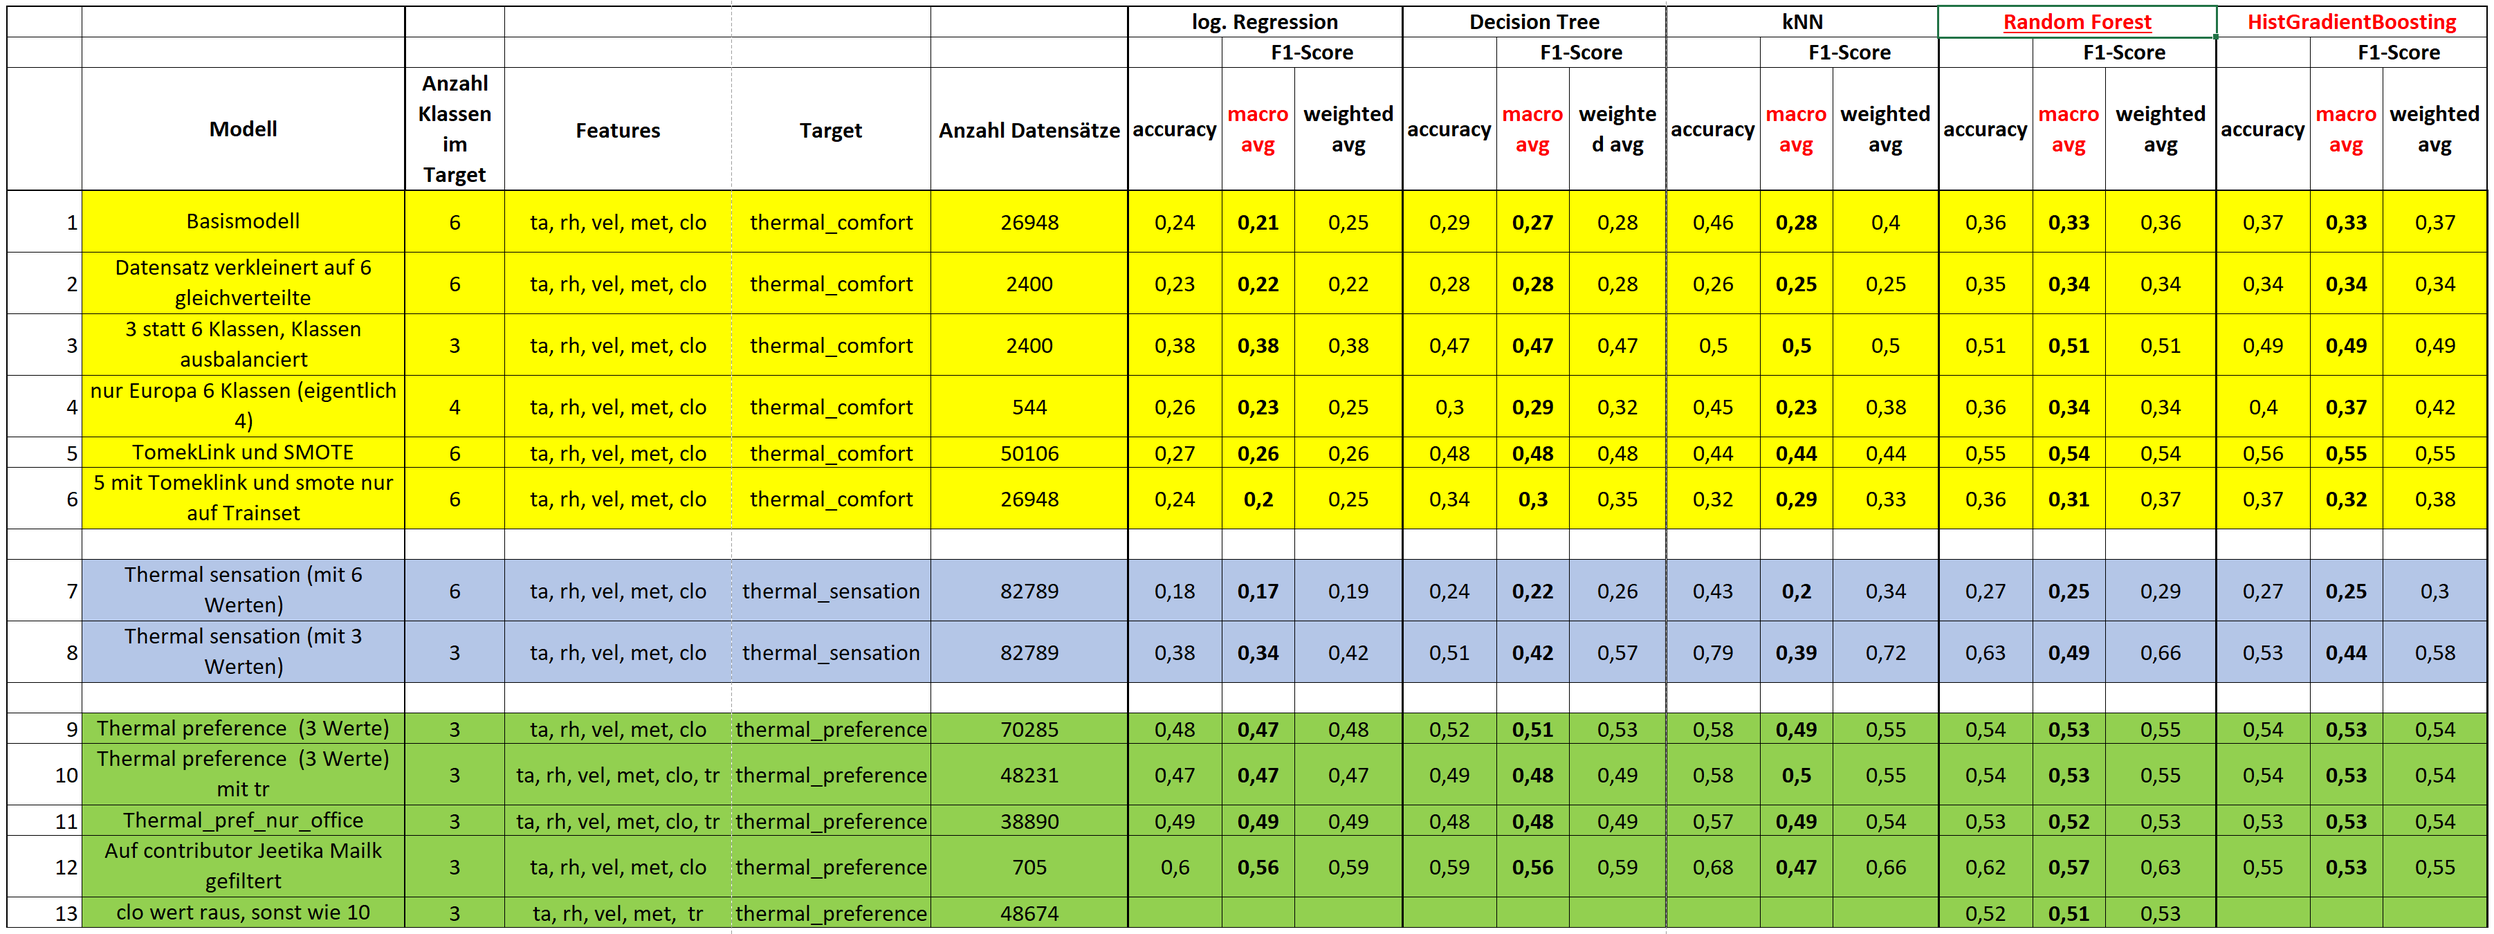
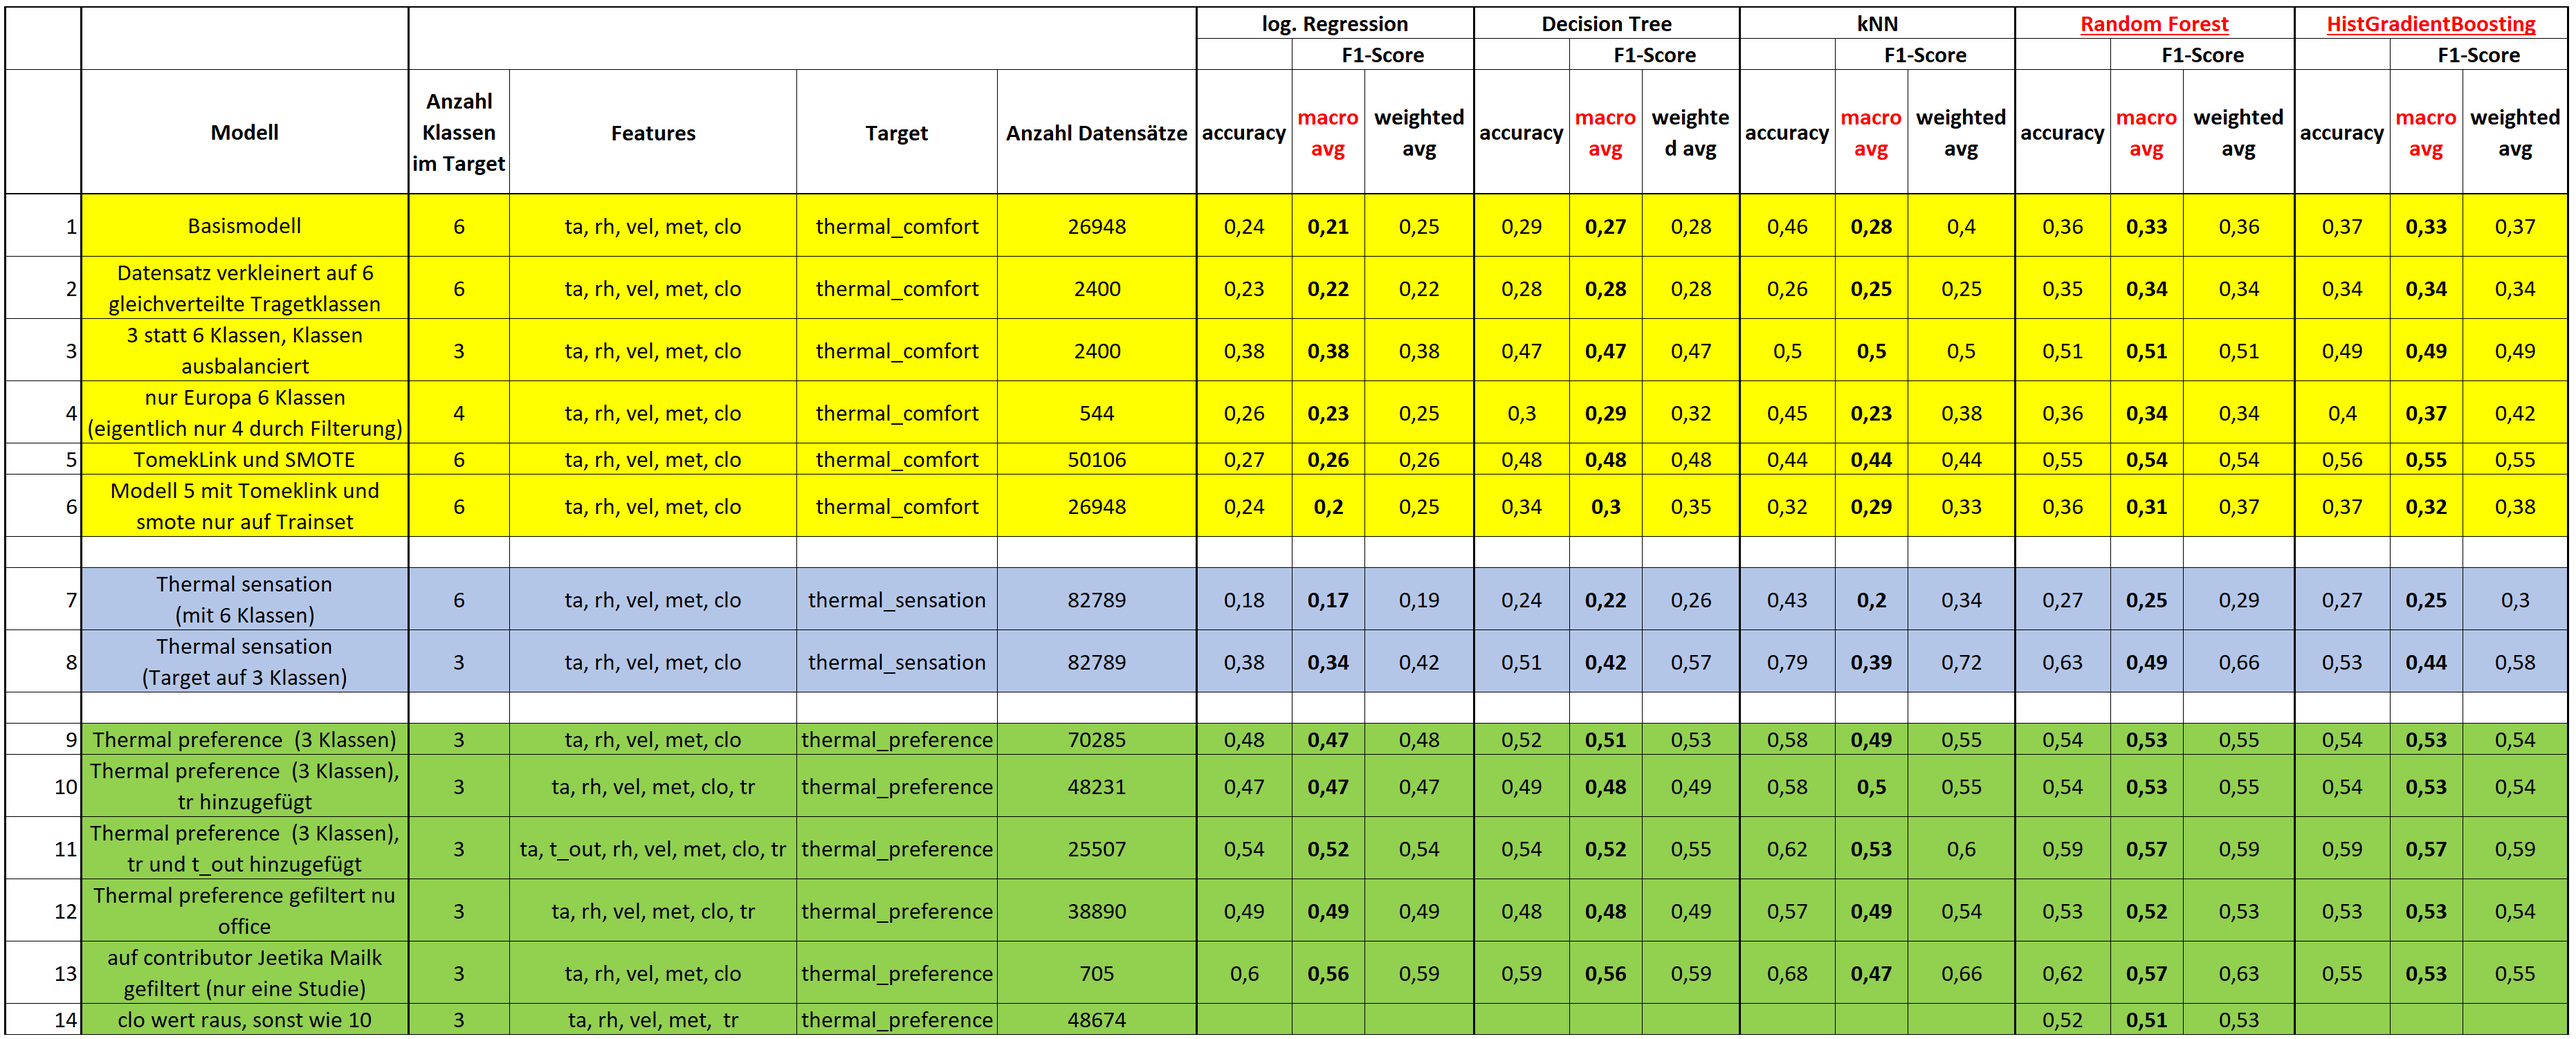
update_ML

diff --git a/ml_ashrae.py b/ml_ashrae.py
@@ -33,8 +33,6 @@ import io
 import threading
 import time
 
-
-
 # Seiteneinstellungen konfigurieren
 st.set_page_config(
     page_title="ASHRAE Cooling Type Classifier",
@@ -176,19 +174,35 @@ with tab2:
 
     st.subheader("Subjektive Komfortbewertungen")
 
-    st.html(slide_point("Idee: Vorhersage der subjektiven Komfortbewertungen (thermal comfort, thermal sensation, therman preference) mit Hilfe von Featuren wie, ..."))
+    st.html(slide_point("Idee: Vorhersage der subjektiven Komfortbewertungen (<b>thermal comfort, thermal sensation, therman preference</b>) mit Hilfe von Featuren wie,"))
+    st.html(slide_smallpoint("Lufttemperatur"))
+    st.html(slide_smallpoint("Außentemperatur"))
+    st.html(slide_smallpoint("relative Luftfeuchtigkeit"))
+    st.html(slide_smallpoint("Luftgeschwindigkeit"))
+    st.html(slide_smallpoint("Wärmedurchgangswiderstand der Bekleidung"))
+    st.html(slide_smallpoint("Mittlere Strahlungstemperatur"))
+    st.html(slide_smallpoint("Aktivitätsgrad"))
 
 
     st.subheader("Aufgetretende Probleme")
 
     st.html(slide_point("Label Noise"))
-    st.markdown("&nbsp;&nbsp;&nbsp;&nbsp; - Die gleichen Bedingungen führen zu subjektiv unterschiedlichen Ergebnisse.")
+    st.markdown("&nbsp;&nbsp;&nbsp;&nbsp; - Die gleichen Bedingungen führen zu subjektiv unterschiedlichen Ergebnisse.<br>")
+    st.markdown("&nbsp;&nbsp;&nbsp;&nbsp;&nbsp;&nbsp;&nbsp;&nbsp;- Menschliche Varianz: Zwei Personen sitzen nebeneinander bei exakt 22 °C, gleicher Kleidung und Aktivität. Person A (hat gerade Kaffee getrunken) wählt cooler. Person B (isst gerade ein Eis) wählt no change oder warmer.")
+    st.markdown("&nbsp;&nbsp;&nbsp;&nbsp;&nbsp;&nbsp;&nbsp;&nbsp;- Subjektive Unentschlossenheit: Der Übergang von „Es ist okay“ (no change) zu „Ich hätte es gerne etwas wärmer“ (warmer) ist fließend. \n Derselbe Mensch würde an zwei verschiedenen Tagen bei exakt identischen Sensorwerten mal so und mal so abstimmen.")
     st.markdown("&nbsp;&nbsp;&nbsp;&nbsp; - Es bilden sich keine klassischen Cluster oder Möglichkeiten für einen Classifier für Unterscheidungen.")
     st.markdown("&nbsp;&nbsp;&nbsp;&nbsp; - Klassifizierungen erzielen eine Genauigkeit die kaum Mehrwert bietet.")
 
+    links, rechts = st.columns([1,1])
+
+    with links:
+        st.image("ML/images/Problem_label_noise_thermal_comfort.png", caption="Label Noise - Beispiel Thermal Comfort")
+
+    with rechts:
+        st.image("ML/images/Problem_label_noise_thermal_preference.png", caption="Label Noise - Beispiel Thermal Comfort")
+
     links, mitte, rechts = st.columns([1,2,1])
     with mitte:
-        st.image("ML/images/Problem_label_noise_thermal_comfort.png", caption="Label Noise - Beispiel Thermal Comfort")
 
         st.image("ML/images/confusion_matrix_thermal_comfort.png", caption="Beispiel Confusion matrix - Thermal Comfort")
 
@@ -218,6 +232,14 @@ with tab2:
         unsafe_allow_html=True
     )
 
+
+    st.html("<div style='height: 140px;'></div>")    
+
+    links, mitte, rechts = st.columns([1,2,1])
+    with mitte:
+
+
+        st.image("ML/images/VergleichModelle_thermal_preference_F1.png", caption="Vergleich der Ergebnisse - Thermal preference")    
 
 with tab3:
 
@@ -254,7 +276,7 @@ with tab3:
         
         with row1_col1:
             st.subheader("📋 Features")
-            possible_features = ['air_temperature', 'relative_humidity', 'air_speed', 'metabolic_rate', 'clothing_ensemble_insulation', 'radiant_temperature']
+            possible_features = ['air_temperature', 'outdoor_air_temperature', 'relative_humidity', 'air_speed', 'metabolic_rate', 'clothing_ensemble_insulation', 'radiant_temperature']
             selected_features = []
             for feature in possible_features:
                 if st.checkbox(feature, value=True, key=f"feat_{feature}"):
@@ -345,7 +367,7 @@ with tab3:
             param = {
             "classifier__max_depth": [6, 9, 12],
             "classifier__n_estimators": [100],
-            "classifier__min_samples_leaf": [20, 50],
+            "classifier__min_samples_leaf": [2, 20, 50],
             "classifier__min_samples_split": [50],
             "classifier__max_features": ["sqrt"],
             #"classifier__class_weight": ["balanced"],
@@ -367,7 +389,7 @@ with tab3:
             # Maximale Baumtiefe (Der gesuchte Sweet-Spot zwischen 3 und 16)
             'classifier__max_depth': [6, 9, 12],
             # Mindestanzahl an Datenpunkten pro Endblatt (Schutz vor Rauschen/Overfitting)
-            'classifier__min_samples_leaf': [10, 30, 60],
+            'classifier__min_samples_leaf': [2, 10, 30, 60],
             # Mindestanzahl an Datenpunkten, um einen Knoten überhaupt zu teilen
             'classifier__min_samples_split': [25, 70],
             # Feature-Begrenzung pro Split ('sqrt' nutzt ca. 2 von 5 Features, None nutzt alle 5)
